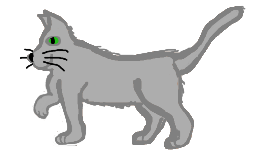
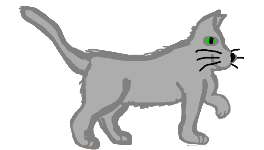
dużo rzeczy

diff --git a/Cat.cpp b/Cat.cpp
@@ -3,6 +3,7 @@
 void Cat::create(std::map<std::string, Anim*> animations) {
 	anims = animations;
 	setAnimation(animations["catIdle"]);
+	Utils::setOriginInCenter(*this);
 }
 
 void Cat::update(sf::Time deltaTime) {
@@ -16,10 +17,8 @@ void Cat::update(sf::Time deltaTime) {
 		else {
 			move(-5, 0);
 		}
-		if (abs(getPosition().x-activePrank->xCoord) < 15) {
-			state = PRANK;
-			setAnimation(activePrank->catAnim);
-
+		if (abs(getPosition().x-activePrank->activeItem->getPosition().x) < 15) {
+			state = CLOSETOPRANK;
 		}
 	}
 	else if (state == PRANK) {
@@ -39,16 +38,23 @@ void Cat::update(sf::Time deltaTime) {
 			move(-15, 0);
 		}
 	}
+	else if (state == CLOSETOPRANK) {
+
+			setAnimation(activePrank->catAnim);
+			activePrank->onStart();
+	}
 	AnimSprite::update(deltaTime.asMilliseconds());
 }
 
 void Cat::setNextPrank(Prank* prank) {
 	activePrank = prank;
-	if (prank->xCoord > getPosition().x) {
+	if (prank->activeItem->getPosition().x > getPosition().x) {
 		travelDirection = RIGHT;
+		setScale(abs(getScale().x), getScale().y);
 	}
 	else {
 		travelDirection = LEFT;
+		setScale(-abs(getScale().x), getScale().y);
 	}
 	state = TRAVEL;
 }

diff --git a/prank.hpp b/prank.hpp
@@ -6,17 +6,19 @@
 
 class Prank{
 public:
-    Prank(std::map<std::string, Item*>* its, int xPosition);
+    Prank(std::map<std::string, Item*>* its);
 
+    virtual void onFinish();
+    virtual void onStart();
     virtual bool isAvailable()=0;
     Anim* catAnim;
     int prankTime = 0; //in milliseconds
-    int xCoord;
 
 
     std::map<std::string, Item*>* items;
 
-    virtual void onFinish();
+    Item* activeItem;
+
 };
 
 

diff --git a/Prank.cpp b/Prank.cpp
@@ -1,9 +1,12 @@
 #include "prank.hpp"
 
-Prank::Prank(std::map<std::string, Item*>* its, int xPosition)
+Prank::Prank(std::map<std::string, Item*>* its)
 :items(its)
 {
-	xCoord = xPosition;
+}
+
+void Prank::onStart() {
+
 }
 
 void Prank::onFinish() {

diff --git a/game.cpp b/game.cpp
@@ -112,5 +112,5 @@ void Game::createObjects(){
     items["pot"] = new ItemPot(anims["pot"]);
     items["pot"]->move(100, 100);
 
-    pranks.push_back(new PrankBookThrow(&items, 1000));
+    pranks.push_back(new PrankBookThrow(&items));
 }

diff --git a/pranks/prankBookThrow.cpp b/pranks/prankBookThrow.cpp
@@ -1,7 +1,7 @@
 #include "prankBookThrow.hpp"
 
-PrankBookThrow::PrankBookThrow(std::map<std::string, Item*>* its, int xPosition)
-:Prank(its, xPosition)
+PrankBookThrow::PrankBookThrow(std::map<std::string, Item*>* its)
+:Prank(its)
 {
 
 }

diff --git a/pranks/prankBookThrow.hpp b/pranks/prankBookThrow.hpp
@@ -5,7 +5,7 @@
 
 class PrankBookThrow: public Prank{
 public:
-    PrankBookThrow(std::map<std::string, Item*>* its, int xPosition);
+    PrankBookThrow(std::map<std::string, Item*>* its);
     bool isAvailable() override;
 };
 

diff --git a/cat.hpp b/cat.hpp
@@ -11,7 +11,8 @@ enum catState {
 	IDLE,
 	TRAVEL,
 	PRANK,
-	RUN
+	RUN,
+	CLOSETOPRANK
 };
 
 enum direction {
